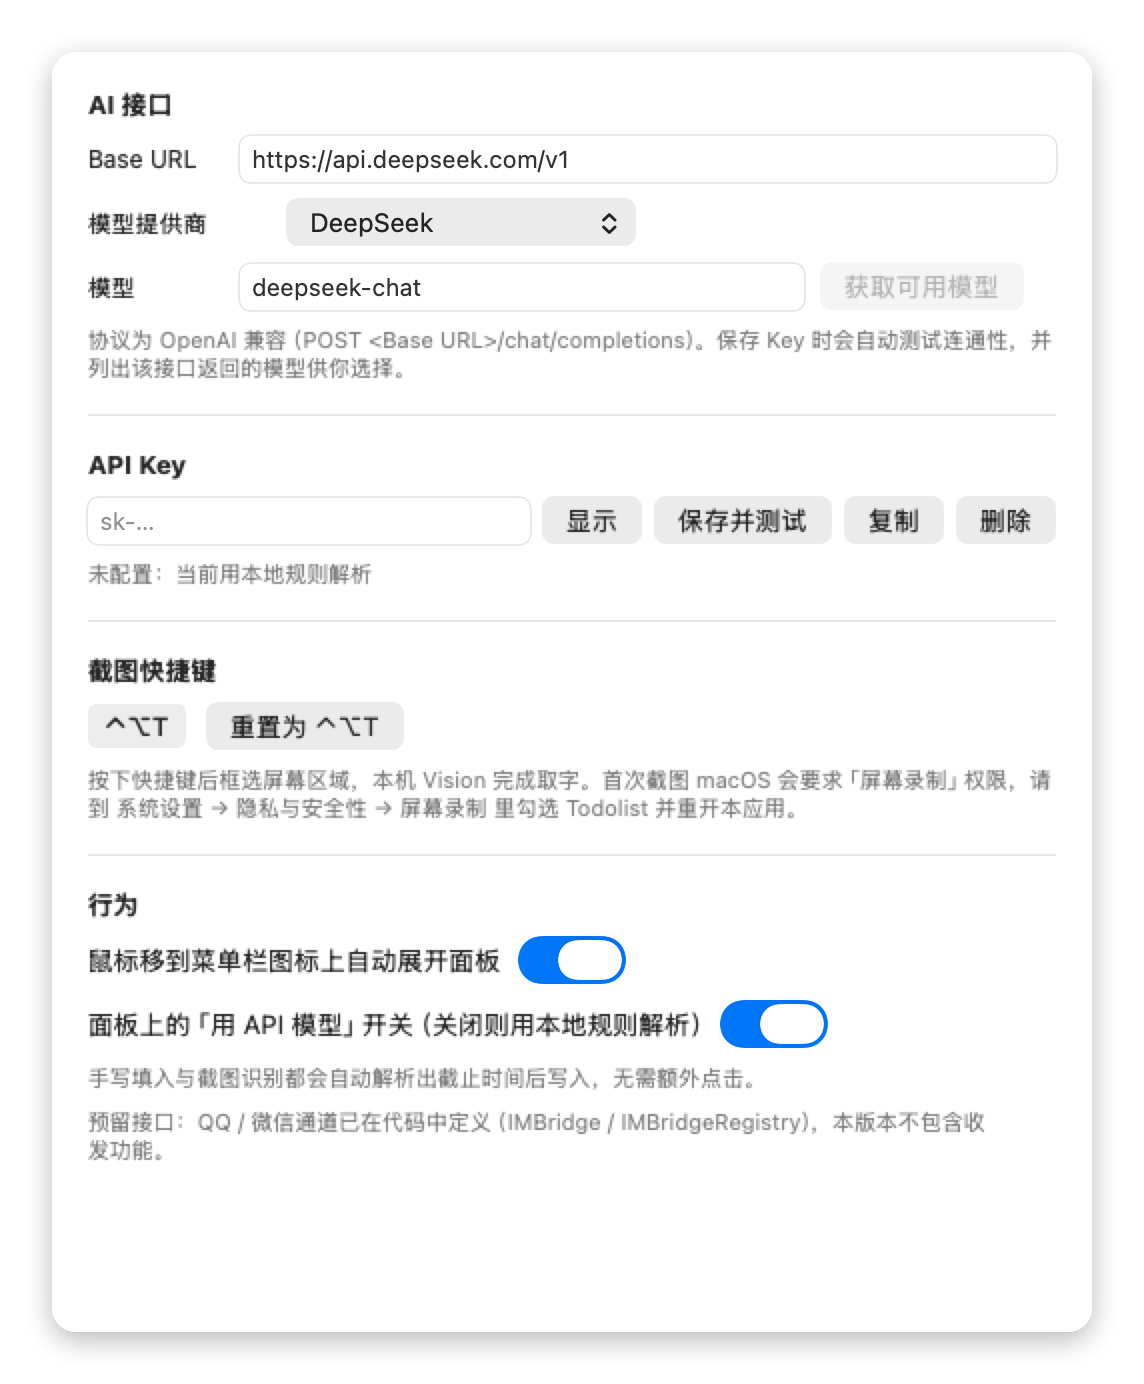
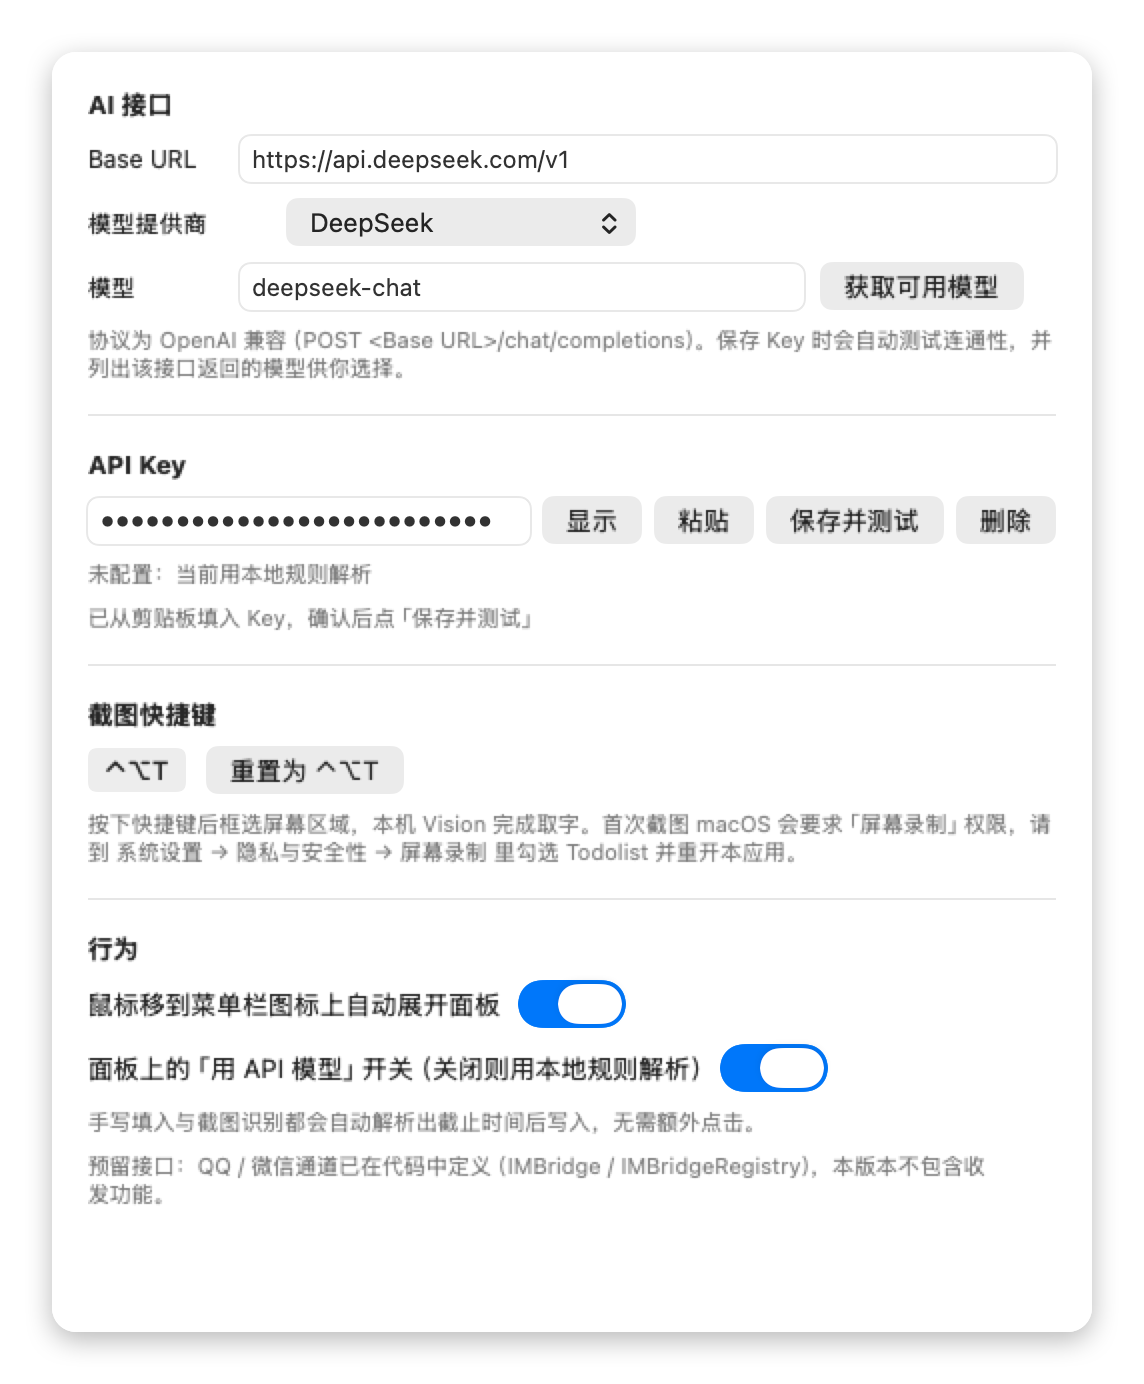
feat: API Key 只从剪贴板读入（粘贴 + 打开设置时自动填入），移除复制出口

diff --git a/Sources/SettingsView.swift b/Sources/SettingsView.swift
@@ -47,6 +47,7 @@ struct SettingsView: View {
         .frame(width: 520, height: 640)
         .onAppear {
             reloadKey()
+            autoFillFromPasteboard()
             if app.keyPresent { refreshModels(showError: false) }
         }
         .onChange(of: settings.settings.ai.provider) { _ in
@@ -134,9 +135,10 @@ struct SettingsView: View {
 
                 Button(showKey ? "隐藏" : "显示") { showKey.toggle() }
                     .help("显示后可选中复制")
+                Button("粘贴") { pasteKey() }
+                    .help("从剪贴板填入 Key")
                 Button(testing ? "测试中…" : "保存并测试") { saveAndTest() }
                     .disabled(testing)
-                Button("复制") { copyKey() }
                 Button("删除") { deleteKey() }
             }
             HStack(spacing: 8) {
@@ -216,15 +218,26 @@ struct SettingsView: View {
         app.refreshKeyPresence()
     }
 
-    private func copyKey() {
-        if app.copyKeyToPasteboard() {
-            probeMessage = "已复制到剪贴板"
-        } else if !keyDraft.isEmpty {
-            NSPasteboard.general.clearContents()
-            NSPasteboard.general.setString(keyDraft, forType: .string)
-            probeMessage = "已复制输入框内容"
+    /// 打开设置时若还没存 Key，且剪贴板里像 Key，就自动填进输入框（不自动保存，等确认）。
+    private func autoFillFromPasteboard() {
+        guard keyDraft.isEmpty else { return }
+        guard let candidate = app.keyFromPasteboard() else { return }
+        keyDraft = candidate
+        probeMessage = "已从剪贴板填入 Key，确认后点「保存并测试」"
+    }
+
+    private func pasteKey() {
+        if let candidate = app.keyFromPasteboard() {
+            keyDraft = candidate
+            probeMessage = "已从剪贴板粘贴，点「保存并测试」"
+            return
+        }
+        if let raw = NSPasteboard.general.string(forType: .string),
+           !raw.trimmingCharacters(in: .whitespacesAndNewlines).isEmpty {
+            keyDraft = raw.trimmingCharacters(in: .whitespacesAndNewlines)
+            probeMessage = "剪贴板内容格式不像 Key，已原样填入，请自行核对"
         } else {
-            probeMessage = "还没有可复制的 Key"
+            probeMessage = "剪贴板里没有文本"
         }
     }
 

diff --git a/Sources/AppController.swift b/Sources/AppController.swift
@@ -199,12 +199,21 @@ final class AppController: ObservableObject, TodoIngest {
         }
     }
 
-    func copyKeyToPasteboard() -> Bool {
-        let account = SecretBox.account(for: settings.settings.ai.provider)
-        guard let key = SecretBox.load(account: account), !key.isEmpty else { return false }
-        NSPasteboard.general.clearContents()
-        NSPasteboard.general.setString(key, forType: .string)
-        return true
+    /// 剪贴板里像不像一个 API Key（单行、无空白、长度合理、字符合法）。
+    static func keyCandidate(from raw: String) -> String? {
+        let trimmed = raw.trimmingCharacters(in: .whitespacesAndNewlines)
+        guard (16...300).contains(trimmed.count) else { return nil }
+        guard !trimmed.contains(where: { $0.isWhitespace }) else { return nil }
+        let allowed = CharacterSet(charactersIn:
+            "abcdefghijklmnopqrstuvwxyzABCDEFGHIJKLMNOPQRSTUVWXYZ0123456789-_.")
+        guard trimmed.unicodeScalars.allSatisfy({ allowed.contains($0) }) else { return nil }
+        return trimmed
+    }
+
+    /// 读剪贴板并返回可用的 Key 候选。
+    func keyFromPasteboard() -> String? {
+        guard let raw = NSPasteboard.general.string(forType: .string) else { return nil }
+        return AppController.keyCandidate(from: raw)
     }
 
     func testAIConnection() async -> String {

diff --git a/README.md b/README.md
@@ -54,7 +54,7 @@ OpenAI 兼容协议（`POST <Base URL>/chat/completions`），三档预设：
 
 - Key 存在 `~/Library/Application Support/Todolist/secrets/api-key-<provider>.key`，权限 0600，按预设分开存放。刻意不用钥匙串：ad-hoc 签名的应用每次重建签名都会变，会反复弹授权框。
 - 设置页顺序：Base URL → 模型提供商 → 模型。点「保存并测试」会请求 `GET <Base URL>/models`：既验证连通性，也把接口返回的模型列出来弹窗让你选；若接口不提供 `/models`，会退回一次对话探测并保留手填的模型名。
-- Key 输入框可「显示」后选中复制，也有独立的「复制」按钮（复制已保存的 Key 到剪贴板）。
+- Key 只从剪贴板读入：点「粘贴」把剪贴板内容填进输入框；打开设置页时若输入框为空、剪贴板里像 Key（单行、长度合理），会自动填入等你确认。
 - **没有 Key 也能用**：自动降级为本地规则解析器（`MockAIService`），识别中文数字（「十点」「一点半」）、时间段（「上午九点到十点」取开始时刻）、相对日期（「明天」「下周三」「6月1日」），并把时间词从标题里剥干净。面板右下角圆点显示当前引擎（绿=远端模型，橙=本地规则）。
 - 提示词在 `Sources/AIPrompts.swift`，注入了当前日期时间、时区与星期，用于把相对时间换算成绝对时间；输出契约为严格 JSON。
 - 手写填入与截图识别共用同一条抽取管线，提交即解析；解析不出结构时，截图文字会回填到输入框供你改。
